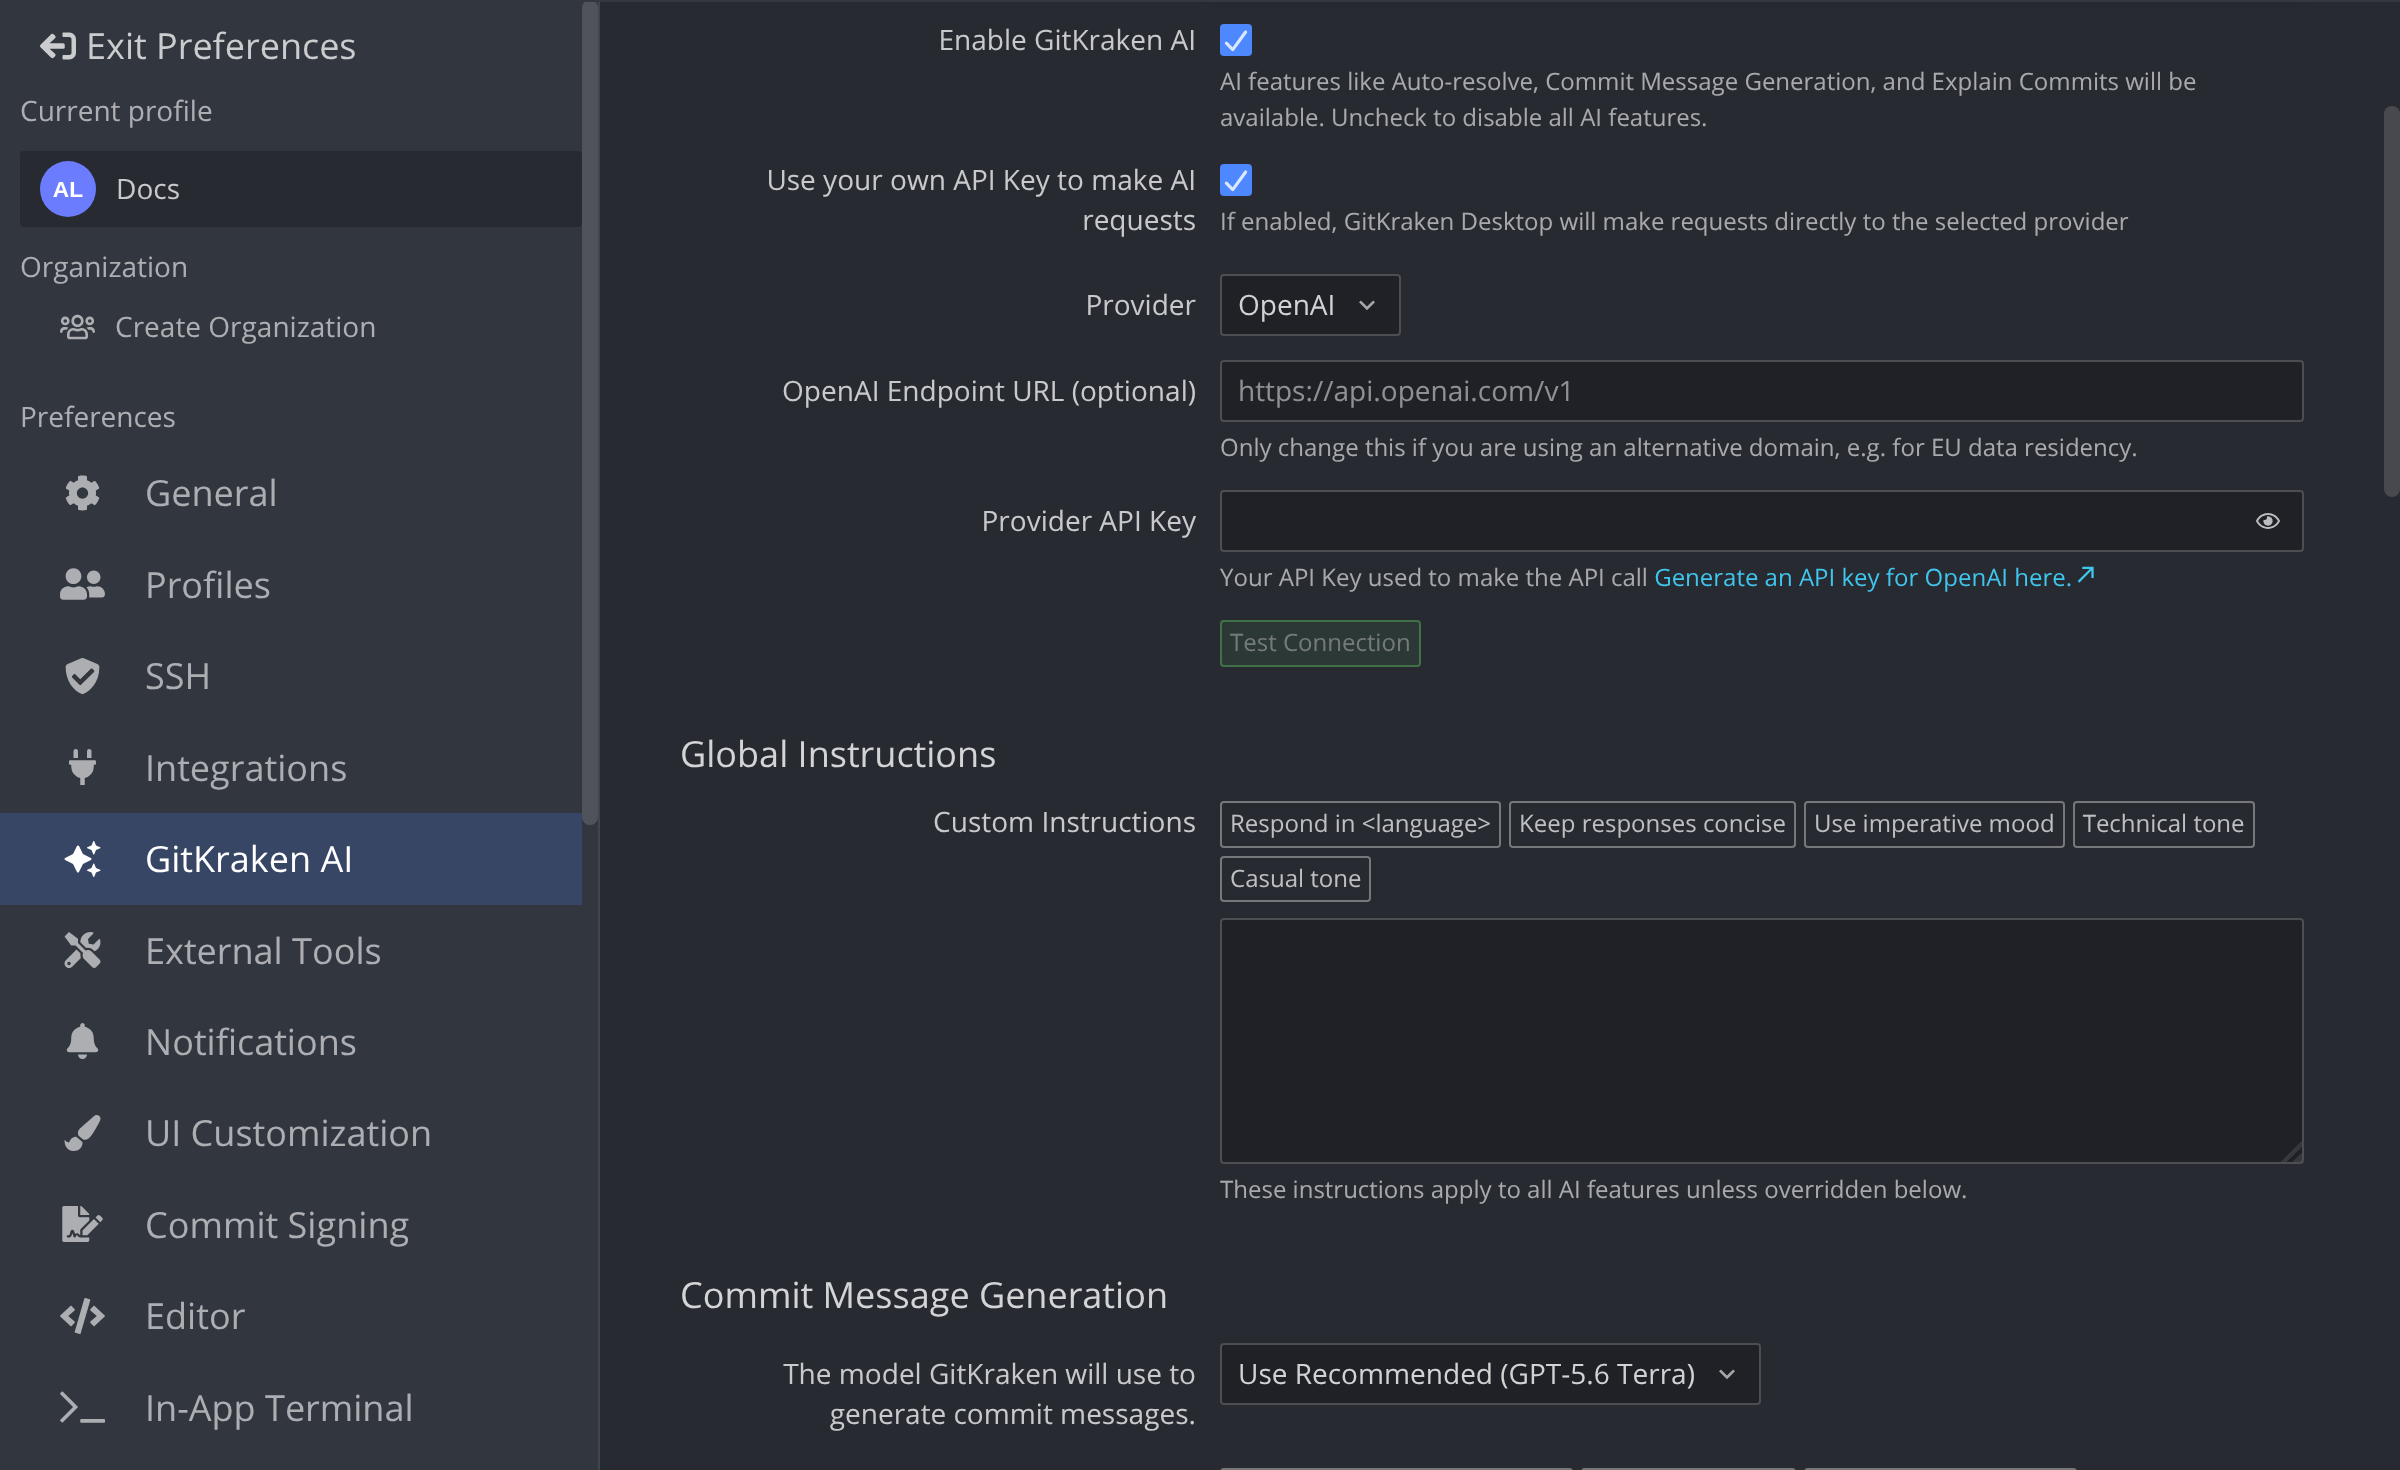
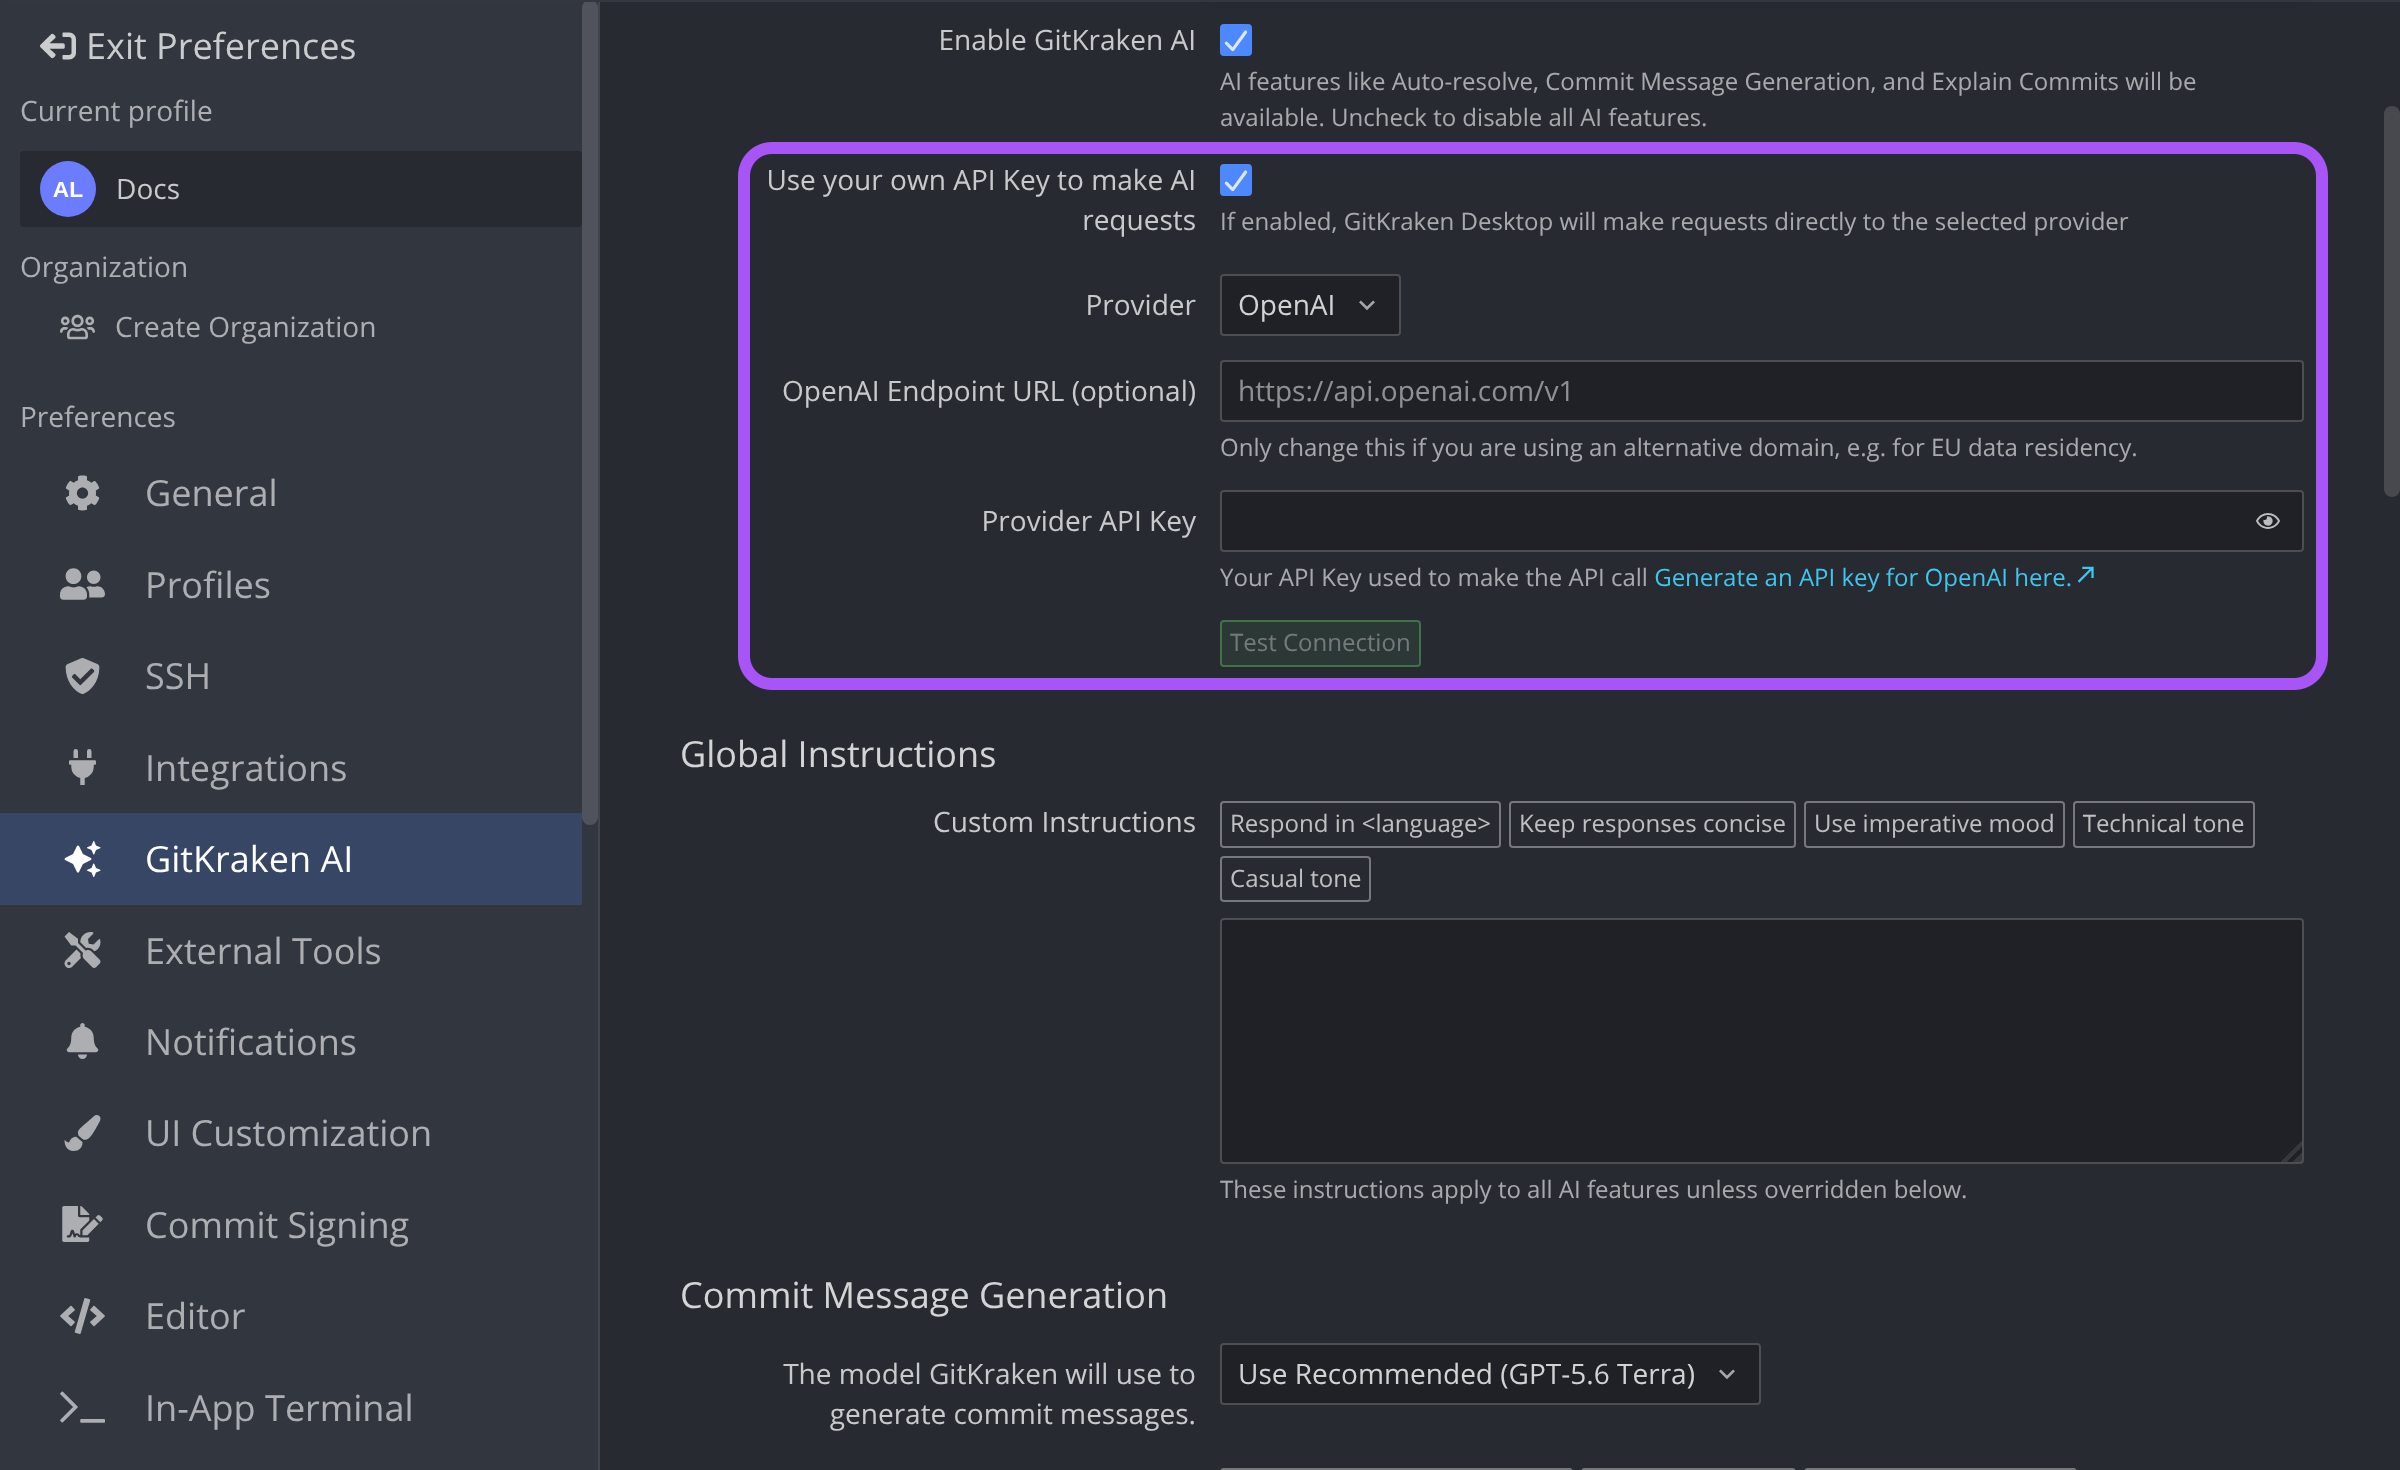
Highlight the control each figure is about
Ring Dim terminal when unfocused, the own API key section and the pinned
branch label; recapture the profile menu with Sign Out ringed and the empty
AI usage row (offline-only) removed.

Changed region(s): [[0.3125, 0.0918, 0.9688, 0.4898], [0.2812, 0.1224, 0.3125, 0.4592]]

diff --git a/gitkraken-desktop/gkd-gitkraken-ai.md b/gitkraken-desktop/gkd-gitkraken-ai.md
@@ -372,7 +372,7 @@ You can pick the model for each AI feature in <kbd>Preferences > GitKraken AI</k
 To use your own API key with **OpenAI**, **Azure**, **Anthropic**, **Google Gemini**, or a **Custom URL**, configure it in <kbd>Preferences > GitKraken AI</kbd>.
 
 <figure>
-<img src="/wp-content/uploads/gkd-11-preferences-gitkraken-ai-01-v2@2x.png" style="max-width: 75%; height: auto; margin: 0 auto;" class="help-center-img img-bordered" alt="GitKraken Desktop Preferences with GitKraken AI selected. Enable GitKraken AI and Use your own API Key to make AI requests are checked, Provider is set to OpenAI with optional Endpoint URL and Provider API Key fields and a Test Connection button, and the Commit Message Generation model is Use Recommended (GPT-5.6 Terra)." />
+<img src="/wp-content/uploads/gkd-11-preferences-gitkraken-ai-01-v2@2x.png" style="max-width: 75%; height: auto; margin: 0 auto;" class="help-center-img img-bordered" alt="GitKraken Desktop Preferences with GitKraken AI selected. Enable GitKraken AI and Use your own API Key to make AI requests are checked. The highlighted own-key section sets Provider to OpenAI with optional Endpoint URL and Provider API Key fields and a Test Connection button. The Commit Message Generation model is Use Recommended (GPT-5.6 Terra)." />
 <figcaption style="text-align: center; color: #888">Configure GitKraken AI providers in Preferences</figcaption>
 </figure>
 

diff --git a/gitkraken-desktop/common-issues.md b/gitkraken-desktop/common-issues.md
@@ -54,7 +54,7 @@ If GitKraken Desktop shows the wrong plan or no AI credits, check which account 
 ### My account shows Trial/Free/Community despite being a paid customer
 In GitKraken Desktop, click your profile icon and check the name and email address under **Account**. If it is the wrong account, click **Sign Out**, then sign in again with the account linked to your subscription:
 <figure class='figure center'>
-  <img alt="The GitKraken Desktop profile and account menu, signed in: Current profile with the profile, AI usage, commit signature and Manage profiles, then Account with the account name and email, Manage account, and Sign Out." src="/wp-content/uploads/gkd-profile-menu-sign-out-01-v2@2x.png" class="help-center-img img-bordered">
+  <img alt="The GitKraken Desktop profile and account menu, signed in: Current profile with the profile, commit signature and Manage profiles, then Account with the account name and email, Manage account, and Sign Out highlighted." src="/wp-content/uploads/gkd-profile-menu-sign-out-01-v3@2x.png" class="help-center-img img-bordered">
   <figcaption style="text-align: center; color: #888;">Ensure you are signed in with the email address linked to your subscription. Avoid using GitHub or Google login options if your subscription is tied to an email address.</figcaption>
 </figure>
 

diff --git a/gitkraken-desktop/faq.md b/gitkraken-desktop/faq.md
@@ -151,7 +151,7 @@ Launch GitKraken Desktop from a terminal to check for missing dependencies. See 
 Make sure you are signed in with the email address associated with your subscription. Click your profile icon and check the email address under **Account**. To use a different account, click **Sign Out**, then sign in with the right account.
 
 <figure class='figure center'>
-  <img src="/wp-content/uploads/gkd-profile-menu-sign-out-01-v2@2x.png" class="help-center-img img-bordered" alt="The GitKraken Desktop profile and account menu, signed in: Current profile with the profile, AI usage, commit signature and Manage profiles, then Account with the account name and email, Manage account, and Sign Out.">
+  <img src="/wp-content/uploads/gkd-profile-menu-sign-out-01-v3@2x.png" class="help-center-img img-bordered" alt="The GitKraken Desktop profile and account menu, signed in: Current profile with the profile, commit signature and Manage profiles, then Account with the account name and email, Manage account, and Sign Out highlighted.">
   <figcaption style="text-align: center; color: #888;">Check your account and sign out from the profile menu.</figcaption>
 </figure>
 

diff --git a/gitkraken-desktop/branching-and-merging.md b/gitkraken-desktop/branching-and-merging.md
@@ -152,7 +152,7 @@ To pin a branch:
 While a branch is pinned, a pin button appears in the **Graph** column header. Click it to jump to and select the pinned branch's latest commit. Hover over the button to see the **Jump to pinned branch** tooltip.
 
 <figure>
-  <img src="/wp-content/uploads/gkd-graph-jump-to-pinned-branch-01-v2@2x.png" class="help-center-img img-bordered" alt="The top of the Commit Graph with a branch pinned to the left: its label, feature/api…, carries a pin icon and its line is the leftmost in the graph. The highlighted thumbtack button in the GRAPH column header shows the tooltip &quot;Jump to pinned branch&quot;.">
+  <img src="/wp-content/uploads/gkd-graph-jump-to-pinned-branch-01-v2@2x.png" class="help-center-img img-bordered" alt="The top of the Commit Graph with a branch pinned to the left: its highlighted label, feature/api…, carries a pin icon and its line is the leftmost in the graph. The highlighted thumbtack button in the GRAPH column header shows the tooltip &quot;Jump to pinned branch&quot;.">
   <figcaption style="text-align:center; color:#888">Jump to the pinned branch from the Graph column header</figcaption>
 </figure>
 

diff --git a/gitkraken-desktop/terminal.md b/gitkraken-desktop/terminal.md
@@ -103,7 +103,7 @@ Open <kbd><strong>Preferences > In-App Terminal</strong></kbd> to change your te
 <figure>
   <img src="/wp-content/uploads/terminal-preferences-2025-v2@2x.png" 
        class="help-center-img img-bordered" 
-       alt="GitKraken Desktop Preferences with In-App Terminal selected, showing Font, Font Size, Line Height, Cursor Style, the Dim terminal when unfocused checkbox, and the Autocomplete options.">
+       alt="GitKraken Desktop Preferences with In-App Terminal selected, showing Font, Font Size, Line Height, Cursor Style, the Dim terminal when unfocused checkbox highlighted, and the Autocomplete options.">
   <figcaption style="text-align:center; color:#888">Access terminal settings under Preferences</figcaption>
 </figure>
 
